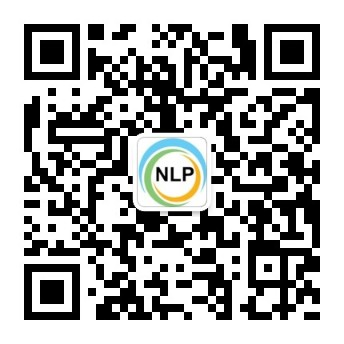
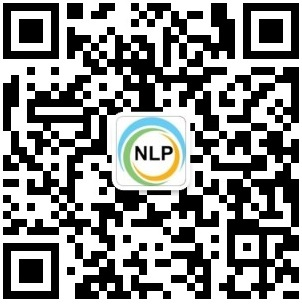
Update README.md

diff --git a/README.md b/README.md
@@ -204,7 +204,7 @@ ___
 
 ### 公众号：NLP工程化
 专注于Python/C++/CUDA、ML/DL/RL和NLP/KG/DS/LLM领域的技术分享  
-<img height="40%" src="https://github.com/ai408/nlp-engineering/blob/main/NLP工程化/NLP工程化_公众号.jpg" width="40%"/>
+<img height="30%" src="https://github.com/ai408/nlp-engineering/blob/main/NLP工程化/NLP工程化_公众号.jpg" width="30%"/>
 
 ### 星球号：NLP工程化 
 <img height="30%" src="https://github.com/ai408/nlp-engineering/blob/main/NLP工程化/NLP工程化_星球号.jpg" width="30%"/>  
